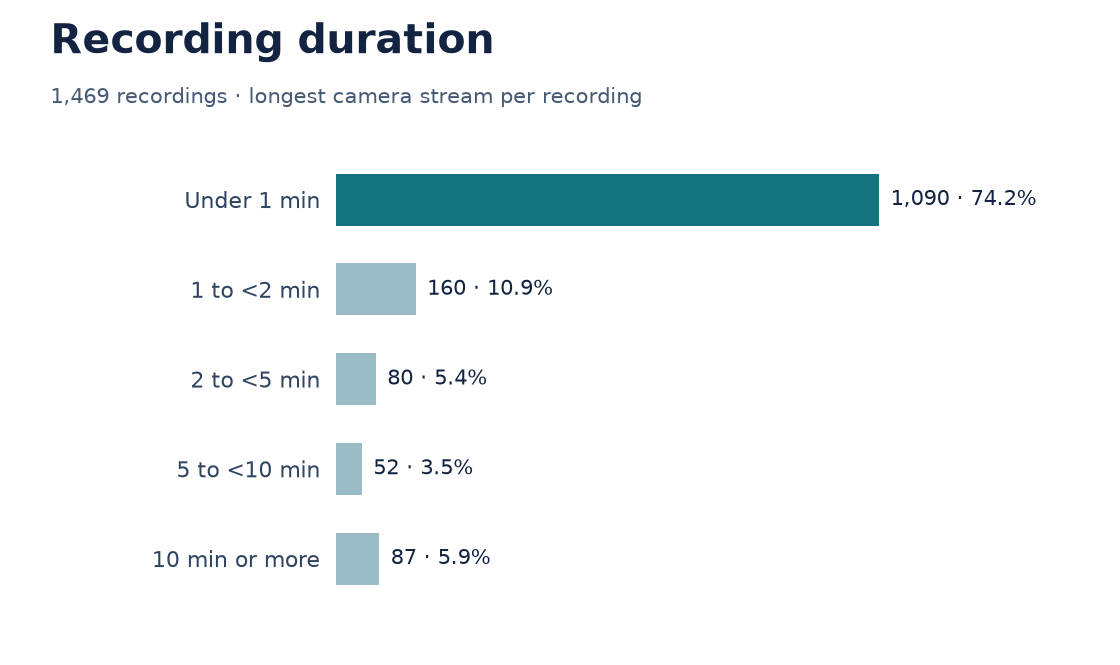
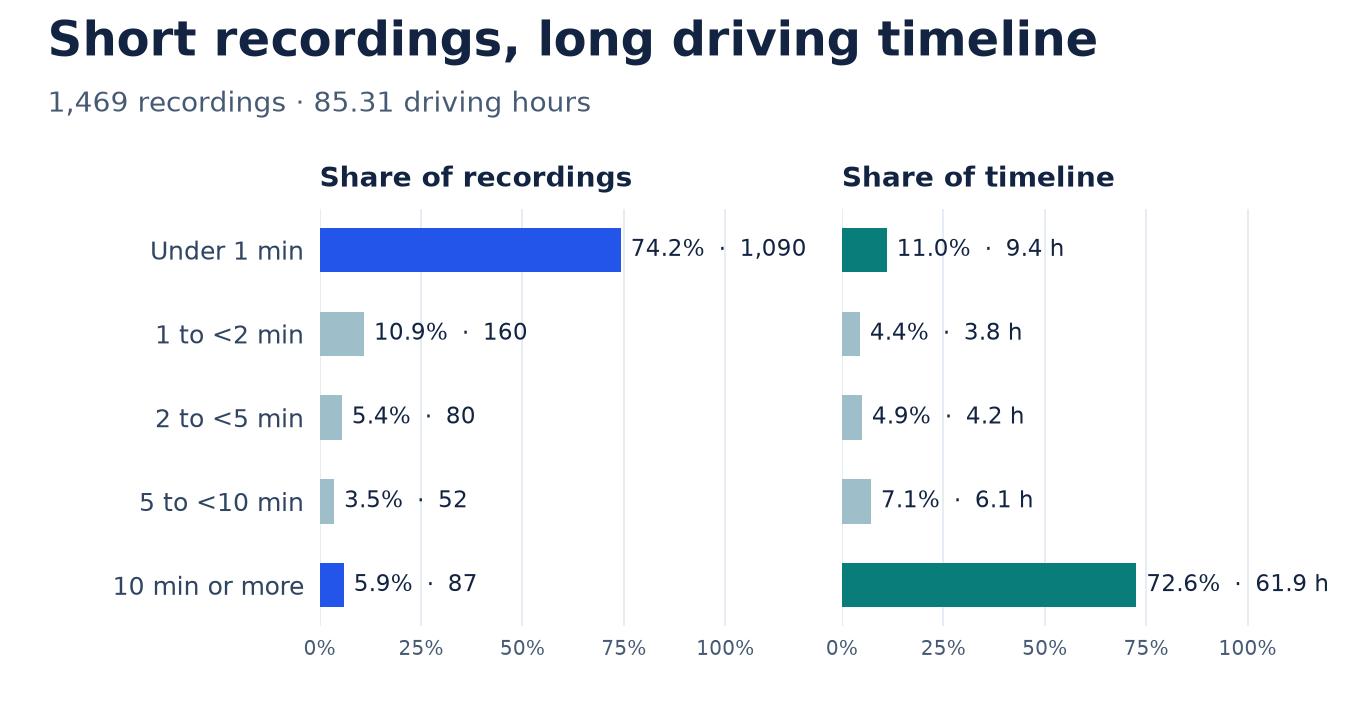
Make data distributions easier to read

diff --git a/index.html b/index.html
@@ -1,5 +1,5 @@
 <!doctype html>
-<html lang="en"><head><meta charset="utf-8"><meta name="viewport" content="width=device-width,initial-scale=1"><meta name="description" content="INDUS-AD brings Indian roads into autonomous-driving research with multi-camera recordings, motion information and sampled scene signals from Bengaluru."><title>INDUS-AD — Indian roads. Real-world complexity.</title><link rel="stylesheet" href="styles.css?v=quickstart-contrast"></head>
+<html lang="en"><head><meta charset="utf-8"><meta name="viewport" content="width=device-width,initial-scale=1"><meta name="description" content="INDUS-AD brings Indian roads into autonomous-driving research with multi-camera recordings, motion information and sampled scene signals from Bengaluru."><title>INDUS-AD — Indian roads. Real-world complexity.</title><link rel="stylesheet" href="styles.css?v=distributions-v2"></head>
 <body><a class="skip" href="#main">Skip to content</a><header class="wrap"><a class="brand" href="#" aria-label="INDUS-AD home"><span class="brand-symbol" aria-hidden="true"></span><span class="brand-text"><span class="brand-wordmark" aria-hidden="true"></span></span></a><nav aria-label="Main navigation"><a href="#overview">Overview</a><a href="#datasets">Datasets</a><a href="#devkit">Devkit</a><a href="#resources">Resources</a><a href="#contact">Contact</a></nav></header>
 
 <main id="main">
@@ -14,10 +14,123 @@
 <section id="coverage" class="section wrap"><div class="section-heading"><h2>More than a view<br>through the windshield.</h2><p>A front camera tells only part of the story. A rider approaches from the side, a vehicle closes from behind, and a turn changes which view matters next.</p></div><div class="two-column"><div><h3>Six surround views, plus a tilted front view</h3><p>Front, front-left, front-right, rear, rear-left and rear-right video are present in all 1,469 main-release recordings. The additional tilted-front stream is available in 1,113 recordings; its absence in the remaining 356 is represented as missing data.</p><p>Multiple cameras provide complementary views of the same driving interval, supporting experiments that use the scene around the vehicle.</p></div><div class="table-scroll"><table><caption>Main-release camera availability</caption><thead><tr><th scope="col">Camera</th><th scope="col">Recordings</th></tr></thead><tbody><tr><td>Front</td><td>1,469</td></tr><tr><td>Front left / front right</td><td>1,469 each</td></tr><tr><td>Rear / rear left / rear right</td><td>1,469 each</td></tr><tr><td>Tilted front</td><td>1,113</td></tr></tbody></table><p class="note">Source: main <a href="https://huggingface.co/datasets/gagandeepreehal/indus-ad">dataset card</a>. Inspect individual recording metadata before selecting streams.</p></div></div>
 <div class="media-pair"><figure><a href="assets/coverage-map.png"><img src="assets/coverage-map.png" alt="Aggregated route-density map across Bengaluru and surrounding road corridors" loading="lazy" width="1600" height="1080"></a><figcaption>Bengaluru route density. Brighter areas show a greater concentration of recorded routes.</figcaption></figure><div><h3>One regional setting, explored in depth</h3><p>The recordings cover Bengaluru and its surrounding road network. They offer a setting for studying mixed traffic, road-user interactions, changing scene context and the practical difficulties of working with real sensor recordings.</p><p>Repeated routes and neighboring clips can share context. Evaluation partitions should account for recording identity, temporal adjacency and scene or trajectory overlap.</p></div></div>
 <figure class="wide-media"><a href="assets/driving-conditions.png"><img src="assets/driving-conditions.png" alt="Four recorded road examples showing clear, overcast, wet-road and low-light scenes" loading="lazy" width="1600" height="900"></a><figcaption>Examples of clear, overcast, wet-road and low-light conditions from the publisher’s research collateral.</figcaption></figure></section>
-<section id="data-distributions" class="section wrap"><div class="section-heading"><h2>Data distributions.</h2><p>See the balance of recording lengths, conditions, roads, time of day, and vehicle motion. Each chart identifies the sampling unit.</p></div>
-<div class="media-pair"><figure><a href="assets/distribution/indus-ad-recording-duration.png"><img src="assets/distribution/indus-ad-recording-duration.png" alt="Recording duration across 1,469 recordings, using the longest camera stream per recording" width="1120" height="665" loading="lazy"></a><figcaption>Most recordings are under a minute. The release also includes 87 recordings of at least ten minutes.</figcaption></figure><figure><a href="assets/distribution/indus-ad-camera-conditions.png"><img src="assets/distribution/indus-ad-camera-conditions.png" alt="Camera-condition labels across 34,306 sampled frames, with clear and overcast most common" width="1120" height="665" loading="lazy"></a><figcaption>Camera conditions are machine-generated labels for sampled frames.</figcaption></figure></div>
-<div class="media-pair"><figure><a href="assets/distribution/indus-ad-road-context.png"><img src="assets/distribution/indus-ad-road-context.png" alt="Mapped road context in 31,464 GNSS windows, including 4,853 unmatched windows" width="1120" height="665" loading="lazy"></a><figcaption>Road groups come from matches to OpenStreetMap. Unmatched windows are shown. Map data © <a href="https://www.openstreetmap.org/copyright">OpenStreetMap contributors</a>.</figcaption></figure><figure><a href="assets/distribution/indus-ad-time-of-day.png"><img src="assets/distribution/indus-ad-time-of-day.png" alt="Time of day across 31,464 GNSS windows, with 73.8 percent in the afternoon and 1.0 percent at night" width="1120" height="665" loading="lazy"></a><figcaption>The GNSS sample is concentrated in the afternoon, with 318 night windows.</figcaption></figure></div>
-<div class="media-pair"><figure><a href="assets/distribution/indus-ad-gnss-motion.png"><img src="assets/distribution/indus-ad-gnss-motion.png" alt="Primary vehicle-motion labels in 31,464 GNSS windows, with cruising the most common label" width="1120" height="665" loading="lazy"></a><figcaption>Motion labels come from rules applied to GNSS traces. Unknown motion is shown explicitly.</figcaption></figure><figure><a href="assets/distribution/indus-ad-traffic-density.png"><img src="assets/distribution/indus-ad-traffic-density.png" alt="Visible vehicle area across 34,306 sampled frames, grouped into four area bins" width="1120" height="665" loading="lazy"></a><figcaption>The traffic-density proxy measures the share of sampled image pixels occupied by vehicles.</figcaption></figure></div>
+<section id="data-distributions" class="section wrap distribution-section" aria-labelledby="distribution-heading">
+  <div class="section-heading">
+    <h2 id="distribution-heading">Data distributions.</h2>
+    <p>INDUS-AD has many short recordings and a much smaller set of long drives. The longer recordings account for most of the timeline.</p>
+  </div>
+
+  <section class="distribution-duration" aria-labelledby="distribution-length">
+    <div class="distribution-duration-header">
+      <div><h3 id="distribution-length">Most driving time comes from 87 recordings.</h3><p>Recordings of ten minutes or more make up 5.9% of the collection by count and provide 61.9 hours of footage.</p></div>
+      <a class="distribution-download" href="assets/distribution/indus-ad-recording-duration.png">View chart image<span class="distribution-visually-hidden"> for recording length</span></a>
+    </div>
+<div class="distribution-grid distribution-length-grid">
+    <article class="distribution-card"><h4>Share of recordings</h4><p class="distribution-card-note">1,469 recordings</p>
+      <dl class="distribution-plot">
+        <div class="distribution-row"><dt>Under 1 min</dt><dd><span class="distribution-track is-count is-highlighted" aria-hidden="true"><span style="--share:74.2001%"></span></span><span class="distribution-value"><strong>74.2%</strong><span>1,090</span></span></dd></div>
+        <div class="distribution-row"><dt>1 to &lt;2 min</dt><dd><span class="distribution-track is-count" aria-hidden="true"><span style="--share:10.8918%"></span></span><span class="distribution-value"><strong>10.9%</strong><span>160</span></span></dd></div>
+        <div class="distribution-row"><dt>2 to &lt;5 min</dt><dd><span class="distribution-track is-count" aria-hidden="true"><span style="--share:5.4459%"></span></span><span class="distribution-value"><strong>5.4%</strong><span>80</span></span></dd></div>
+        <div class="distribution-row"><dt>5 to &lt;10 min</dt><dd><span class="distribution-track is-count" aria-hidden="true"><span style="--share:3.5398%"></span></span><span class="distribution-value"><strong>3.5%</strong><span>52</span></span></dd></div>
+        <div class="distribution-row"><dt>10 min or more</dt><dd><span class="distribution-track is-count" aria-hidden="true"><span style="--share:5.9224%"></span></span><span class="distribution-value"><strong>5.9%</strong><span>87</span></span></dd></div>
+      </dl>
+    </article>
+    <article class="distribution-card"><h4>Share of driving time</h4><p class="distribution-card-note">85.31 hours</p>
+      <dl class="distribution-plot">
+        <div class="distribution-row"><dt>Under 1 min</dt><dd><span class="distribution-track is-time" aria-hidden="true"><span style="--share:11.0241%"></span></span><span class="distribution-value"><strong>11.0%</strong><span>9.4 h</span></span></dd></div>
+        <div class="distribution-row"><dt>1 to &lt;2 min</dt><dd><span class="distribution-track is-time" aria-hidden="true"><span style="--share:4.4006%"></span></span><span class="distribution-value"><strong>4.4%</strong><span>3.8 h</span></span></dd></div>
+        <div class="distribution-row"><dt>2 to &lt;5 min</dt><dd><span class="distribution-track is-time" aria-hidden="true"><span style="--share:4.8939%"></span></span><span class="distribution-value"><strong>4.9%</strong><span>4.2 h</span></span></dd></div>
+        <div class="distribution-row"><dt>5 to &lt;10 min</dt><dd><span class="distribution-track is-time" aria-hidden="true"><span style="--share:7.1203%"></span></span><span class="distribution-value"><strong>7.1%</strong><span>6.1 h</span></span></dd></div>
+        <div class="distribution-row"><dt>10 min or more</dt><dd><span class="distribution-track is-time is-highlighted" aria-hidden="true"><span style="--share:72.5611%"></span></span><span class="distribution-value"><strong>72.6%</strong><span>61.9 h</span></span></dd></div>
+      </dl>
+    </article>
+    </div>
+    <p class="distribution-footnote">Timeline uses the longest camera stream in each recording, so time recorded by simultaneous views is counted once.</p>
+  </section>
+
+  <section class="distribution-group" aria-labelledby="distribution-camera">
+    <h3 id="distribution-camera">What the cameras saw</h3>
+    <p class="distribution-sample"><strong>34,306 sampled frames.</strong> The standard front camera supplies 91.6% of the sample. Both charts use model-generated labels.</p>
+    <div class="distribution-grid">
+    <article class="distribution-card" aria-labelledby="indus-ad-camera-conditions">
+      <h4 id="indus-ad-camera-conditions">Weather and visibility</h4>
+      <p class="distribution-card-note">Clear and overcast together account for 81.1% of the labels. Low light / night is an image label.</p>
+      <dl class="distribution-plot">
+        <div class="distribution-row"><dt>Clear</dt><dd><span class="distribution-track is-highlighted" aria-hidden="true"><span style="--share:48.9506%"></span></span><span class="distribution-value"><strong>49.0%</strong><span>16,793</span></span></dd></div>
+        <div class="distribution-row"><dt>Overcast</dt><dd><span class="distribution-track" aria-hidden="true"><span style="--share:32.1431%"></span></span><span class="distribution-value"><strong>32.1%</strong><span>11,027</span></span></dd></div>
+        <div class="distribution-row"><dt>Uncertain / mixed</dt><dd><span class="distribution-track is-unknown" aria-hidden="true"><span style="--share:8.8906%"></span></span><span class="distribution-value"><strong>8.9%</strong><span>3,050</span></span></dd></div>
+        <div class="distribution-row"><dt>Low light / night</dt><dd><span class="distribution-track" aria-hidden="true"><span style="--share:5.5413%"></span></span><span class="distribution-value"><strong>5.5%</strong><span>1,901</span></span></dd></div>
+        <div class="distribution-row"><dt>Rain / wet road</dt><dd><span class="distribution-track" aria-hidden="true"><span style="--share:2.8071%"></span></span><span class="distribution-value"><strong>2.8%</strong><span>963</span></span></dd></div>
+        <div class="distribution-row"><dt>Fog / haze</dt><dd><span class="distribution-track" aria-hidden="true"><span style="--share:1.6673%"></span></span><span class="distribution-value"><strong>1.7%</strong><span>572</span></span></dd></div>
+      </dl>
+      <a class="distribution-download" href="assets/distribution/indus-ad-camera-conditions.png">View chart image<span class="distribution-visually-hidden"> for weather and visibility</span></a>
+    </article>
+    <article class="distribution-card" aria-labelledby="indus-ad-traffic-density">
+      <h4 id="indus-ad-traffic-density">Traffic density</h4>
+      <p class="distribution-card-note">Rows group frames by the percentage of vehicle pixels. The values on the right show each group’s share and frame count.</p>
+      <dl class="distribution-plot">
+        <div class="distribution-row"><dt>&lt;0.5%</dt><dd><span class="distribution-track" aria-hidden="true"><span style="--share:4.1742%"></span></span><span class="distribution-value"><strong>4.2%</strong><span>1,432</span></span></dd></div>
+        <div class="distribution-row"><dt>0.5% to &lt;3%</dt><dd><span class="distribution-track" aria-hidden="true"><span style="--share:11.9367%"></span></span><span class="distribution-value"><strong>11.9%</strong><span>4,095</span></span></dd></div>
+        <div class="distribution-row"><dt>3% to &lt;8%</dt><dd><span class="distribution-track" aria-hidden="true"><span style="--share:27.6103%"></span></span><span class="distribution-value"><strong>27.6%</strong><span>9,472</span></span></dd></div>
+        <div class="distribution-row"><dt>8% or more</dt><dd><span class="distribution-track is-highlighted" aria-hidden="true"><span style="--share:56.2788%"></span></span><span class="distribution-value"><strong>56.3%</strong><span>19,307</span></span></dd></div>
+      </dl>
+      <a class="distribution-download" href="assets/distribution/indus-ad-traffic-density.png">View chart image<span class="distribution-visually-hidden"> for traffic density</span></a>
+    </article>
+    </div>
+  </section>
+
+  <section class="distribution-group" aria-labelledby="distribution-gnss">
+    <h3 id="distribution-gnss">When, where, and how the vehicle moved</h3>
+    <p class="distribution-sample"><strong>31,464 nominal ten-second GNSS windows.</strong> Each chart uses these same windows. Shares describe the analysed recordings.</p>
+    <div class="distribution-grid distribution-grid-three">
+    <article class="distribution-card" aria-labelledby="indus-ad-time-of-day">
+      <h4 id="indus-ad-time-of-day">Time of day</h4>
+      <p class="distribution-card-note">Times are local to Bengaluru. All 318 night windows come from nine recordings across two dates.</p>
+      <dl class="distribution-plot">
+        <div class="distribution-row"><dt>Morning</dt><dd><span class="distribution-track" aria-hidden="true"><span style="--share:10.0432%"></span></span><span class="distribution-value"><strong>10.0%</strong><span>3,160</span></span></dd></div>
+        <div class="distribution-row"><dt>Afternoon</dt><dd><span class="distribution-track is-highlighted" aria-hidden="true"><span style="--share:73.8082%"></span></span><span class="distribution-value"><strong>73.8%</strong><span>23,223</span></span></dd></div>
+        <div class="distribution-row"><dt>Evening</dt><dd><span class="distribution-track" aria-hidden="true"><span style="--share:15.1379%"></span></span><span class="distribution-value"><strong>15.1%</strong><span>4,763</span></span></dd></div>
+        <div class="distribution-row"><dt>Night</dt><dd><span class="distribution-track" aria-hidden="true"><span style="--share:1.0107%"></span></span><span class="distribution-value"><strong>1.0%</strong><span>318</span></span></dd></div>
+      </dl>
+      <a class="distribution-download" href="assets/distribution/indus-ad-time-of-day.png">View chart image<span class="distribution-visually-hidden"> for time of day</span></a>
+    </article>
+    <article class="distribution-card" aria-labelledby="indus-ad-road-context">
+      <h4 id="indus-ad-road-context">Road types</h4>
+      <p class="distribution-card-note">Main roads include major through roads and highways. No map match means we could not assign a road type.</p>
+      <dl class="distribution-plot">
+        <div class="distribution-row"><dt>Main roads</dt><dd><span class="distribution-track is-highlighted" aria-hidden="true"><span style="--share:59.3281%"></span></span><span class="distribution-value"><strong>59.3%</strong><span>18,667</span></span></dd></div>
+        <div class="distribution-row"><dt>Local streets</dt><dd><span class="distribution-track" aria-hidden="true"><span style="--share:15.6528%"></span></span><span class="distribution-value"><strong>15.7%</strong><span>4,925</span></span></dd></div>
+        <div class="distribution-row"><dt>Connecting roads</dt><dd><span class="distribution-track" aria-hidden="true"><span style="--share:8.8673%"></span></span><span class="distribution-value"><strong>8.9%</strong><span>2,790</span></span></dd></div>
+        <div class="distribution-row"><dt>Several road types</dt><dd><span class="distribution-track" aria-hidden="true"><span style="--share:0.7278%"></span></span><span class="distribution-value"><strong>0.7%</strong><span>229</span></span></dd></div>
+        <div class="distribution-row"><dt>No map match</dt><dd><span class="distribution-track is-unknown" aria-hidden="true"><span style="--share:15.4240%"></span></span><span class="distribution-value"><strong>15.4%</strong><span>4,853</span></span></dd></div>
+      </dl>
+      <a class="distribution-download" href="assets/distribution/indus-ad-road-context.png">View chart image<span class="distribution-visually-hidden"> for road types</span></a>
+    </article>
+    <article class="distribution-card" aria-labelledby="indus-ad-gnss-motion">
+      <h4 id="indus-ad-gnss-motion">Vehicle motion</h4>
+      <p class="distribution-card-note">Rules applied to GNSS traces assign motion labels. Unknown motion stays visible.</p>
+      <dl class="distribution-plot">
+        <div class="distribution-row"><dt>Cruising</dt><dd><span class="distribution-track is-highlighted" aria-hidden="true"><span style="--share:31.7601%"></span></span><span class="distribution-value"><strong>31.8%</strong><span>9,993</span></span></dd></div>
+        <div class="distribution-row"><dt>Stopped</dt><dd><span class="distribution-track" aria-hidden="true"><span style="--share:17.3118%"></span></span><span class="distribution-value"><strong>17.3%</strong><span>5,447</span></span></dd></div>
+        <div class="distribution-row"><dt>Accelerating</dt><dd><span class="distribution-track" aria-hidden="true"><span style="--share:10.7774%"></span></span><span class="distribution-value"><strong>10.8%</strong><span>3,391</span></span></dd></div>
+        <div class="distribution-row"><dt>Slowing down</dt><dd><span class="distribution-track" aria-hidden="true"><span style="--share:10.2625%"></span></span><span class="distribution-value"><strong>10.3%</strong><span>3,229</span></span></dd></div>
+        <div class="distribution-row"><dt>Unknown motion</dt><dd><span class="distribution-track is-unknown" aria-hidden="true"><span style="--share:23.0072%"></span></span><span class="distribution-value"><strong>23.0%</strong><span>7,239</span></span></dd></div>
+      </dl>
+      <details class="distribution-details"><summary>Additional motion categories</summary>
+      <dl class="distribution-plot">
+        <div class="distribution-row"><dt>Other motion</dt><dd><span class="distribution-track" aria-hidden="true"><span style="--share:2.8445%"></span></span><span class="distribution-value"><strong>2.8%</strong><span>895</span></span></dd></div>
+        <div class="distribution-row"><dt>Stopping</dt><dd><span class="distribution-track" aria-hidden="true"><span style="--share:2.2534%"></span></span><span class="distribution-value"><strong>2.3%</strong><span>709</span></span></dd></div>
+        <div class="distribution-row"><dt>Starting</dt><dd><span class="distribution-track" aria-hidden="true"><span style="--share:1.6686%"></span></span><span class="distribution-value"><strong>1.7%</strong><span>525</span></span></dd></div>
+        <div class="distribution-row"><dt>Left turn</dt><dd><span class="distribution-track" aria-hidden="true"><span style="--share:0.0604%"></span></span><span class="distribution-value"><strong>0.1%</strong><span>19</span></span></dd></div>
+        <div class="distribution-row"><dt>Right turn</dt><dd><span class="distribution-track" aria-hidden="true"><span style="--share:0.0509%"></span></span><span class="distribution-value"><strong>0.1%</strong><span>16</span></span></dd></div>
+        <div class="distribution-row"><dt>U-turn</dt><dd><span class="distribution-track" aria-hidden="true"><span style="--share:0.0032%"></span></span><span class="distribution-value"><strong>&lt;0.1%</strong><span>1</span></span></dd></div>
+      </dl>
+      </details>
+      <a class="distribution-download" href="assets/distribution/indus-ad-gnss-motion.png">View chart image<span class="distribution-visually-hidden"> for vehicle motion</span></a>
+    </article>
+    </div>
+    <p class="distribution-footnote">Road types are based on map data © <a href="https://www.openstreetmap.org/copyright">OpenStreetMap contributors</a>.</p>
+  </section>
 </section>
 <section id="data-schema" class="section wrap"><div class="section-heading"><h2>What data is included?</h2><p>A field guide to the main INDUS-AD release, from camera frames to vehicle motion and scene annotations.</p></div>
 <div class="comparison-scroll" role="region" aria-label="INDUS-AD data fields" tabindex="0"><table><caption>Published data and example schema fields</caption><thead><tr><th scope="col">Data</th><th scope="col">What you get</th><th scope="col">Example fields</th></tr></thead><tbody>

diff --git a/styles.css b/styles.css
@@ -45,3 +45,66 @@
   .devkit .quickstart-panel { margin-top: 28px; }
   .devkit .quickstart-panel .citation-code { padding: 16px 12px; }
 }
+.distribution-section .section-heading { margin-bottom: 34px; }
+.distribution-section h3, .distribution-section h4 { margin: 0; color: var(--navy); }
+.distribution-section h4 { font-size: 1.15rem; letter-spacing: -.025em; }
+.distribution-duration {
+  padding: clamp(16px, 4vw, 38px);
+  border: 1px solid #c9e3e4;
+  border-radius: 18px;
+  background: #f2f9f9;
+}
+.distribution-duration-header {
+  display: flex;
+  align-items: start;
+  justify-content: space-between;
+  gap: 12px 28px;
+  margin-bottom: 22px;
+}
+.distribution-duration-header p, .distribution-sample { margin: 7px 0 0; color: var(--muted); }
+.distribution-duration-header p { max-width: 44rem; }
+.distribution-download {
+  display: inline-flex;
+  align-items: center;
+  width: fit-content;
+  min-height: 44px;
+  color: #1745b8;
+  font-size: .875rem;
+  font-weight: 700;
+  white-space: nowrap;
+  text-underline-offset: .19em;
+}
+.distribution-length-grid .distribution-card-note { margin-bottom: 12px; }
+.distribution-section .distribution-footnote { margin: 12px 0 0; color: var(--muted); font-size: .86rem; }
+.distribution-group { margin-top: clamp(32px, 6vw, 60px); }
+.distribution-grid { display: grid; grid-template-columns: repeat(2, minmax(0, 1fr)); gap: 16px; margin-top: 16px; align-items: start; }
+.distribution-grid-three { grid-template-columns: repeat(3, minmax(0, 1fr)); }
+.distribution-card { min-width: 0; padding: clamp(15px, 2.2vw, 25px); border: 1px solid var(--line); border-radius: 14px; background: #fff; }
+.distribution-card-note { margin: 7px 0 16px; color: var(--muted); font-size: .91rem; line-height: 1.45; }
+.distribution-plot { margin: 0; }
+.distribution-row { display: grid; grid-template-columns: minmax(6.65rem, .9fr) minmax(9.35rem, 1.75fr); gap: 8px; align-items: center; padding: 6px 0; border-bottom: 1px solid #ebf0f6; }
+.distribution-row dt { color: var(--ink); font-size: .86rem; line-height: 1.3; }
+.distribution-row dd { display: grid; grid-template-columns: minmax(1.65rem, 1fr) max-content; gap: 8px; align-items: center; margin: 0; }
+.distribution-value { display: grid; grid-template-columns: 3.15rem 2.65rem; align-items: baseline; gap: 4px; font-variant-numeric: tabular-nums; text-align: right; white-space: nowrap; }
+.distribution-value strong { color: var(--navy); font-size: .86rem; }
+.distribution-value span { color: var(--muted); font-size: .76rem; }
+.distribution-track { display: block; height: 8px; overflow: hidden; background: #e7edf5; border-radius: 99px; }
+.distribution-track > span { display: block; width: var(--share); height: 100%; border-radius: inherit; background: #7dabb6; }
+.distribution-track.is-count > span { background: #81a1ec; }
+.distribution-track.is-highlighted > span { background: #087d7a; }
+.distribution-track.is-count.is-highlighted > span { background: var(--blue); }
+.distribution-track.is-unknown > span { background: #8692a7; }
+.distribution-details { margin-top: 3px; }
+.distribution-details summary { cursor: pointer; padding: 10px 0; color: #1745b8; font-size: .875rem; font-weight: 700; }
+.distribution-visually-hidden { position: absolute; width: 1px; height: 1px; padding: 0; margin: -1px; overflow: hidden; clip-path: inset(50%); white-space: nowrap; border: 0; }
+@media (max-width: 1050px) {
+  .distribution-grid-three { grid-template-columns: repeat(2, minmax(0, 1fr)); }
+  .distribution-grid-three .distribution-card:last-child { grid-column: 1 / -1; }
+}
+@media (max-width: 720px) {
+  .distribution-grid, .distribution-grid-three { grid-template-columns: minmax(0, 1fr); }
+  .distribution-duration-header { display: block; margin-bottom: 8px; }
+  .distribution-row { grid-template-columns: minmax(0, .9fr) minmax(7.4rem, 1.45fr); }
+  .distribution-row dd { grid-template-columns: minmax(1.2rem, 1fr) max-content; gap: 5px; }
+  .distribution-value { grid-template-columns: 2.8rem 2.5rem; gap: 3px; }
+}
